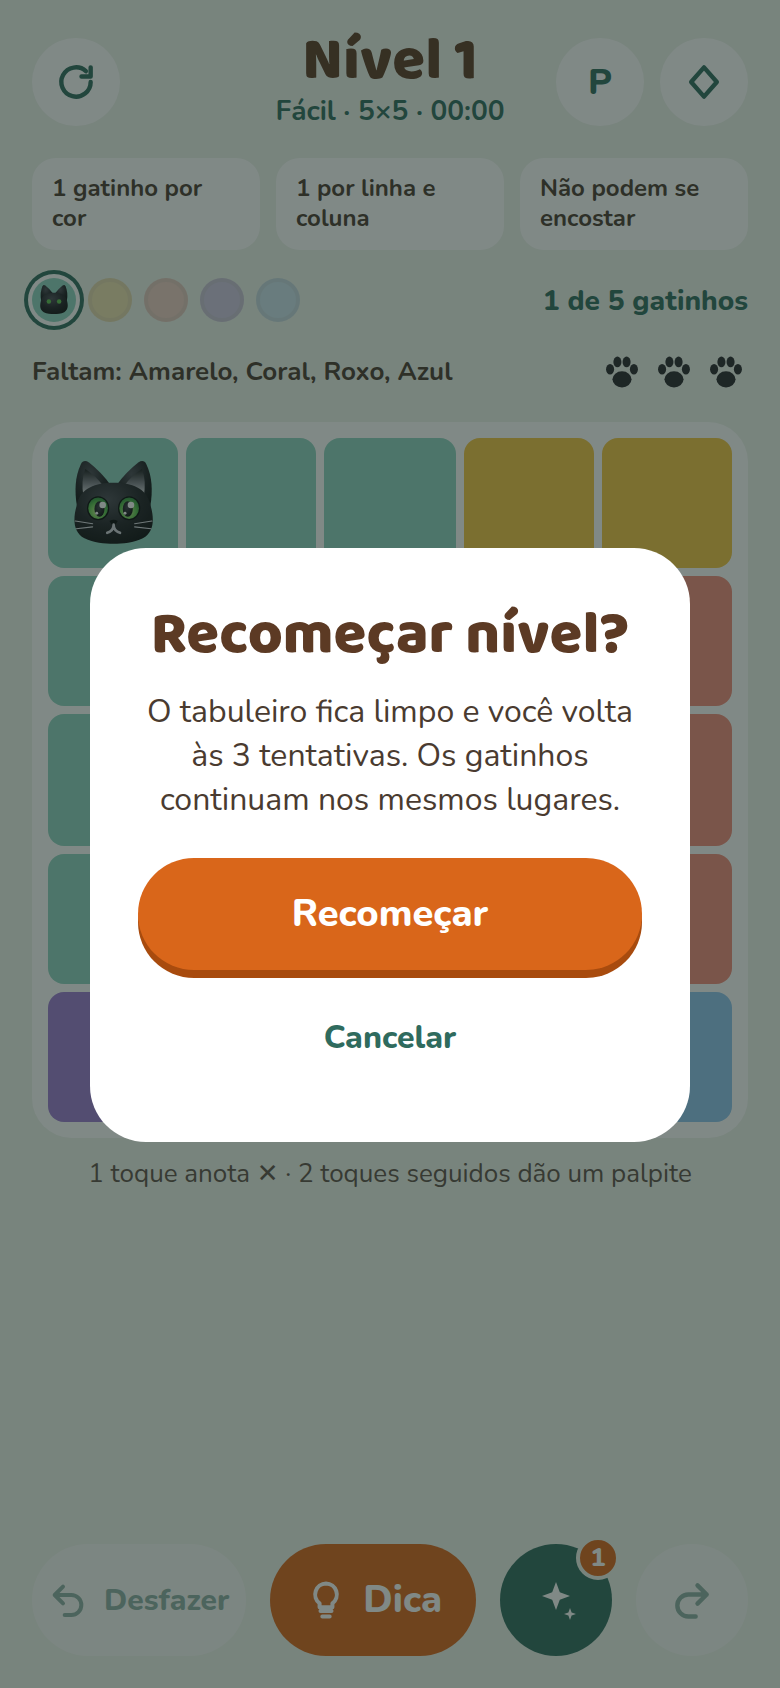
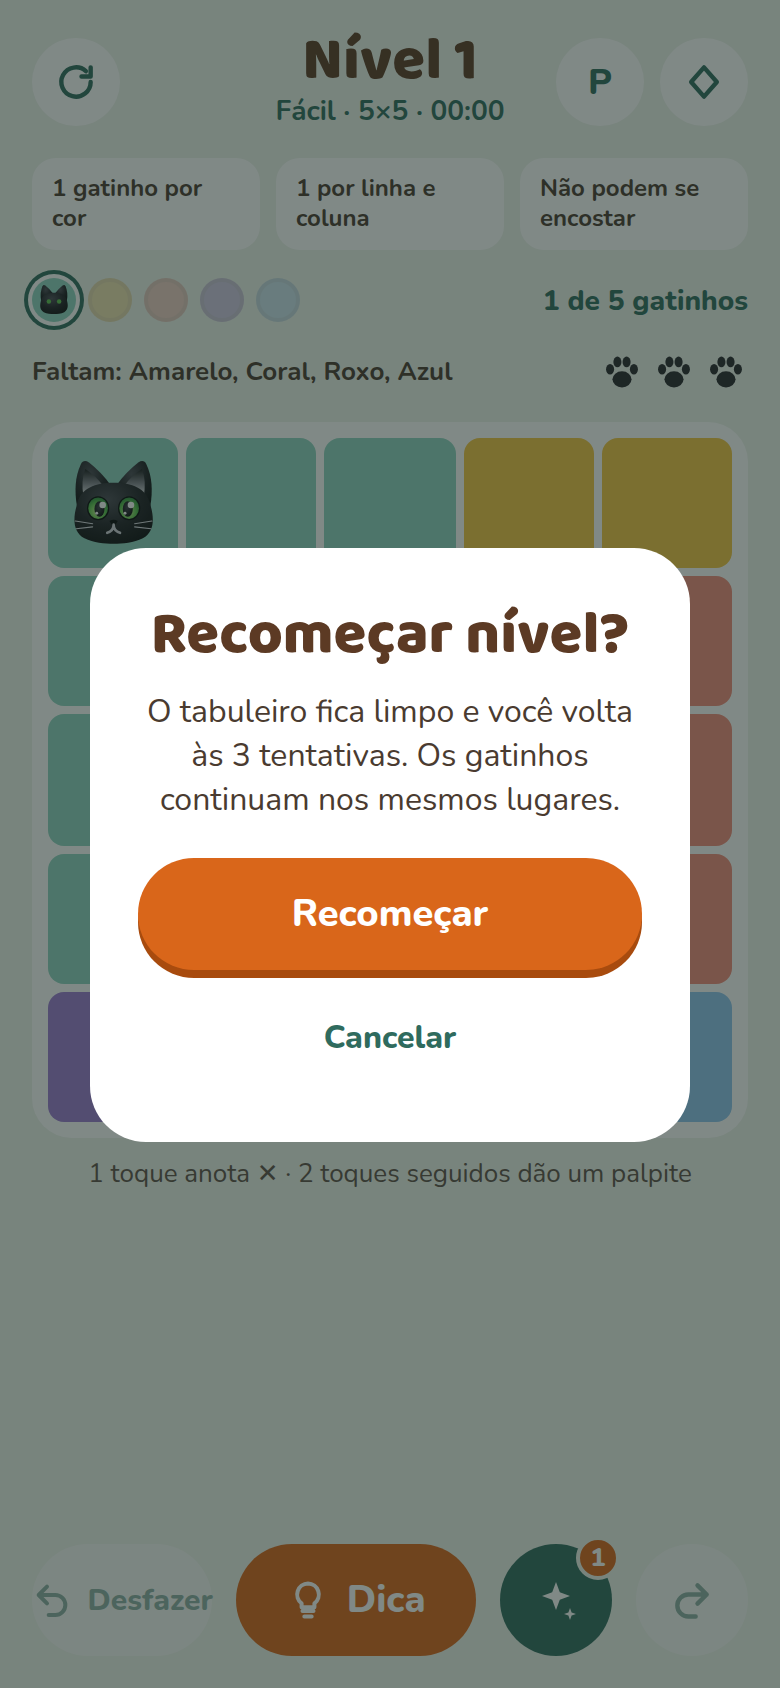
Palpite errado: modal escurecido com a patinha sendo rasgada no centro da tela

Changed region(s): [[0.0308, 0.8934, 0.5846, 0.9858]]

diff --git a/src/ui/style.css b/src/ui/style.css
@@ -96,7 +96,6 @@ button:disabled { opacity: .5; cursor: default; }
 .layer.ghost { opacity: .55; }
 
 .tag { display: block; font-size: 11px; font-weight: 800; letter-spacing: .06em; text-transform: uppercase; color: var(--mata); margin-bottom: 2px; }
-.toast { position: absolute; left: 16px; right: 16px; top: max(env(safe-area-inset-top), 16px); z-index: 6; background: var(--frajola); color: #fff; padding: 12px 16px; border-radius: 16px; font-size: 15px; font-weight: 700; text-align: center; animation: winPop .25s ease both; }
 .cell.skel { background: linear-gradient(110deg, #e1e9de 30%, #f3f7f1 50%, #e1e9de 70%); background-size: 200% 100%; animation: shimmer 1.4s ease-in-out infinite; }
 #app.loading .bar button, #app.loading .top button { pointer-events: none; opacity: .5; }
 #hint .bob { animation: bob 1.4s ease-in-out infinite; display: block; }
@@ -113,17 +112,22 @@ button:disabled { opacity: .5; cursor: default; }
 .field input:focus { outline: none; border-color: var(--mata); }
 .paw { display: inline-flex; }
 .paw.break { animation: pawBreak 1.1s ease both; }
-.crack { position: absolute; left: 50%; top: 42%; width: 120px; height: 120px; margin: -60px 0 0 -60px; z-index: 7; pointer-events: none; animation: crackPop 1.2s ease both; }
-.crack .half { position: absolute; inset: 0; }
-.crack .half.l { clip-path: inset(0 50% 0 0); animation: halfL 1.2s ease both; }
-.crack .half.r { clip-path: inset(0 0 0 50%); animation: halfR 1.2s ease both; }
-.crack .zig { position: absolute; left: 48px; top: 0; animation: zig 1.2s ease both; filter: drop-shadow(0 0 2px rgba(0,0,0,.4)); }
-.crack::before { content: ''; position: absolute; inset: -14px; border-radius: 50%; background: rgba(217, 58, 63, .22); animation: flash 1.2s ease both; }
-@keyframes crackPop { 0% { transform: scale(.4); opacity: 0; } 15% { transform: scale(1.15); opacity: 1; } 25% { transform: scale(1) rotate(-4deg); } 33% { transform: rotate(4deg); } 41% { transform: rotate(-3deg); } 50% { transform: rotate(0); } 100% { opacity: 1; } }
-@keyframes halfL { 0%, 45% { transform: none; opacity: 1; } 100% { transform: translate(-34px, 70px) rotate(-22deg); opacity: 0; } }
-@keyframes halfR { 0%, 45% { transform: none; opacity: 1; } 100% { transform: translate(34px, 70px) rotate(22deg); opacity: 0; } }
-@keyframes zig { 0%, 20% { opacity: 0; } 35%, 55% { opacity: 1; } 100% { opacity: 0; } }
-@keyframes flash { 0% { opacity: 0; } 20% { opacity: 1; } 100% { opacity: 0; } }
+.crack { position: absolute; inset: 0; z-index: 7; pointer-events: none; display: flex; flex-direction: column; align-items: center; justify-content: center; gap: 4px; background: rgba(24, 40, 34, .5); color: #fff; text-align: center; opacity: 0; }
+.crack.play { animation: crackBg 1.7s ease both; }
+.crack strong { font-family: 'Baloo 2', sans-serif; font-weight: 800; font-size: 30px; line-height: 1.1; margin-top: 8px; }
+.crack > span { font-size: 16px; font-weight: 700; opacity: .9; }
+.tear { position: relative; width: 150px; height: 150px; filter: drop-shadow(0 6px 10px rgba(0, 0, 0, .35)); }
+.tear .half { position: absolute; inset: 0; background: #fff; border-radius: 50%; }
+.tear .half svg { position: absolute; inset: 0; }
+.tear .half.l { clip-path: polygon(0 0, 52% 0, 46% 18%, 56% 36%, 44% 55%, 55% 74%, 48% 100%, 0 100%); }
+.tear .half.r { clip-path: polygon(52% 0, 100% 0, 100% 100%, 48% 100%, 55% 74%, 44% 55%, 56% 36%, 46% 18%); }
+.crack.play .tear { animation: tearPop 1.7s ease both; }
+.crack.play .half.l { animation: tearL 1.7s ease-in both; }
+.crack.play .half.r { animation: tearR 1.7s ease-in both; }
+@keyframes crackBg { 0% { opacity: 0; } 10%, 82% { opacity: 1; } 100% { opacity: 0; } }
+@keyframes tearPop { 0% { transform: scale(.4); } 14% { transform: scale(1.1); } 22% { transform: scale(1) rotate(-4deg); } 30% { transform: rotate(4deg); } 38% { transform: rotate(-3deg); } 46% { transform: rotate(0); } 100% { transform: scale(1); } }
+@keyframes tearL { 0%, 46% { transform: none; opacity: 1; } 100% { transform: translate(-46px, 26px) rotate(-16deg); opacity: .15; } }
+@keyframes tearR { 0%, 46% { transform: none; opacity: 1; } 100% { transform: translate(46px, 26px) rotate(16deg); opacity: .15; } }
 @keyframes pawBreak { 0% { transform: scale(1); } 20% { transform: scale(1.5) rotate(-12deg); } 40% { transform: scale(1.5) rotate(12deg); } 60% { transform: scale(1.2) rotate(-6deg); } 100% { transform: scale(1); } }
 #sheet h2 { padding-right: 52px; }
 .badge.used { background: #8a948c; }

diff --git a/src/ui/main.ts b/src/ui/main.ts
@@ -145,8 +145,8 @@ function update(next: GameState): void {
     saveProgress(kv, progress);
   }
 if (game && next.mistakes > game.mistakes) {
-    crack(attemptsLeft(next));
-    if (!isLost(next)) toast('Aqui não tem gatinho. Você perdeu 1 tentativa.');
+    if (isLost(next)) breakIdx = attemptsLeft(next);
+    else crack(attemptsLeft(next));
   }
   game = next;
   save(kv, level, game, symbols);
@@ -177,26 +177,24 @@ function showLoading(k: number): void {
   hint.innerHTML = `<span class="bob">${catHint(60)}</span><div class="bubble"><span>Preparando o nível ${k}…${n >= 9 ? ' Tabuleiros grandes demoram um pouquinho.' : ''}</span></div>`;
 }
 
-/** Patinha grande que "quebra" quando um palpite falha (e a patinha do contador balança). */
-const PAW_BIG = '<svg viewBox="0 0 24 24" width="120" height="120" aria-hidden="true"><g fill="#26262B"><ellipse cx="12" cy="16" rx="5.2" ry="4.4"/><ellipse cx="5.5" cy="10.5" rx="2.2" ry="2.8"/><ellipse cx="9.5" cy="6.5" rx="2.2" ry="2.9"/><ellipse cx="14.5" cy="6.5" rx="2.2" ry="2.9"/><ellipse cx="18.5" cy="10.5" rx="2.2" ry="2.8"/></g></svg>';
+/**
+ * Palpite errado: o fundo escurece como num modal e uma patinha grande é rasgada ao meio no centro da tela.
+ * Não bloqueia os toques e some sozinho; a patinha do contador também balança.
+ */
+const PAW_BIG = '<svg viewBox="0 0 24 24" width="150" height="150" aria-hidden="true"><g fill="#1F1F25"><ellipse cx="12" cy="16" rx="5.2" ry="4.4"/><ellipse cx="5.5" cy="10.5" rx="2.2" ry="2.8"/><ellipse cx="9.5" cy="6.5" rx="2.2" ry="2.9"/><ellipse cx="14.5" cy="6.5" rx="2.2" ry="2.9"/><ellipse cx="18.5" cy="10.5" rx="2.2" ry="2.8"/></g></svg>';
 let crackTimer = 0;
-function crack(lostIdx: number): void {
+function crack(left: number): void {
   const el = $('crack');
-  el.innerHTML = `<span class="half l">${PAW_BIG}</span><span class="half r">${PAW_BIG}</span><svg class="zig" viewBox="0 0 24 120" width="24" height="120" aria-hidden="true"><path d="M12 0 L7 24 L16 44 L6 70 L15 94 L11 120" stroke="#fff" stroke-width="3" fill="none" stroke-linejoin="round"/></svg>`;
+  const msg = left === 1 ? 'Última tentativa!' : `Restam ${left} tentativas`;
+  el.innerHTML = `<div class="tear"><span class="half l">${PAW_BIG}</span><span class="half r">${PAW_BIG}</span></div><strong>Palpite errado</strong><span>${msg}</span>`;
   el.hidden = false;
-  breakIdx = lostIdx;
+  el.classList.remove('play');
+  void el.offsetWidth; // reinicia a animação se houver dois erros seguidos
+  el.classList.add('play');
+  breakIdx = left;
   try { navigator.vibrate?.(160); } catch { /* sem vibração */ }
   clearTimeout(crackTimer);
-  crackTimer = window.setTimeout(() => { el.hidden = true; breakIdx = -1; if (game) render(); }, 1300);
-}
-
-let toastTimer = 0;
-function toast(msg: string): void {
-  const t = $('toast');
-  t.textContent = msg;
-  t.hidden = false;
-  clearTimeout(toastTimer);
-  toastTimer = window.setTimeout(() => (t.hidden = true), 2200);
+  crackTimer = window.setTimeout(() => { el.hidden = true; breakIdx = -1; if (game) render(); }, 1700);
 }
 
 async function startLevel(k: number): Promise<void> {

diff --git a/index.html b/index.html
@@ -67,7 +67,6 @@
         </button>
       </div>
       <div id="crack" class="crack" aria-hidden="true" hidden></div>
-      <div id="toast" class="toast" role="status" hidden></div>
       <div id="sheet" hidden></div>
       <div id="overlay" hidden></div>
     </div>
